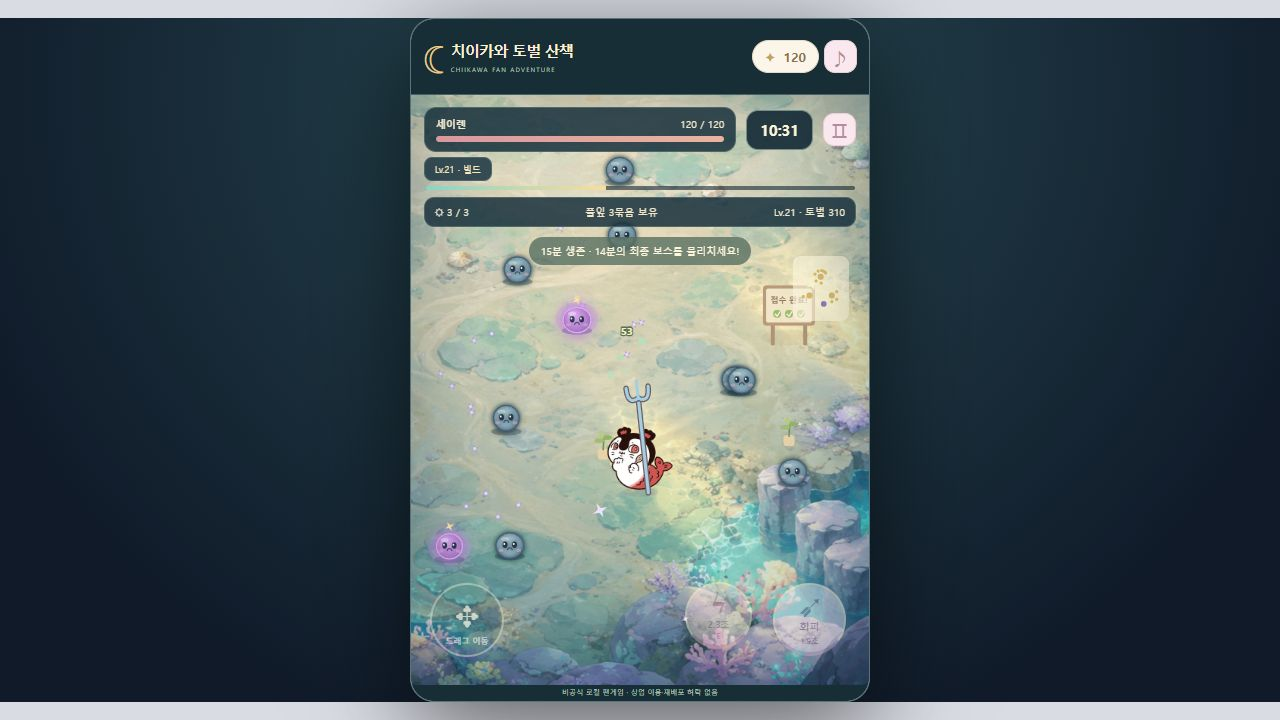
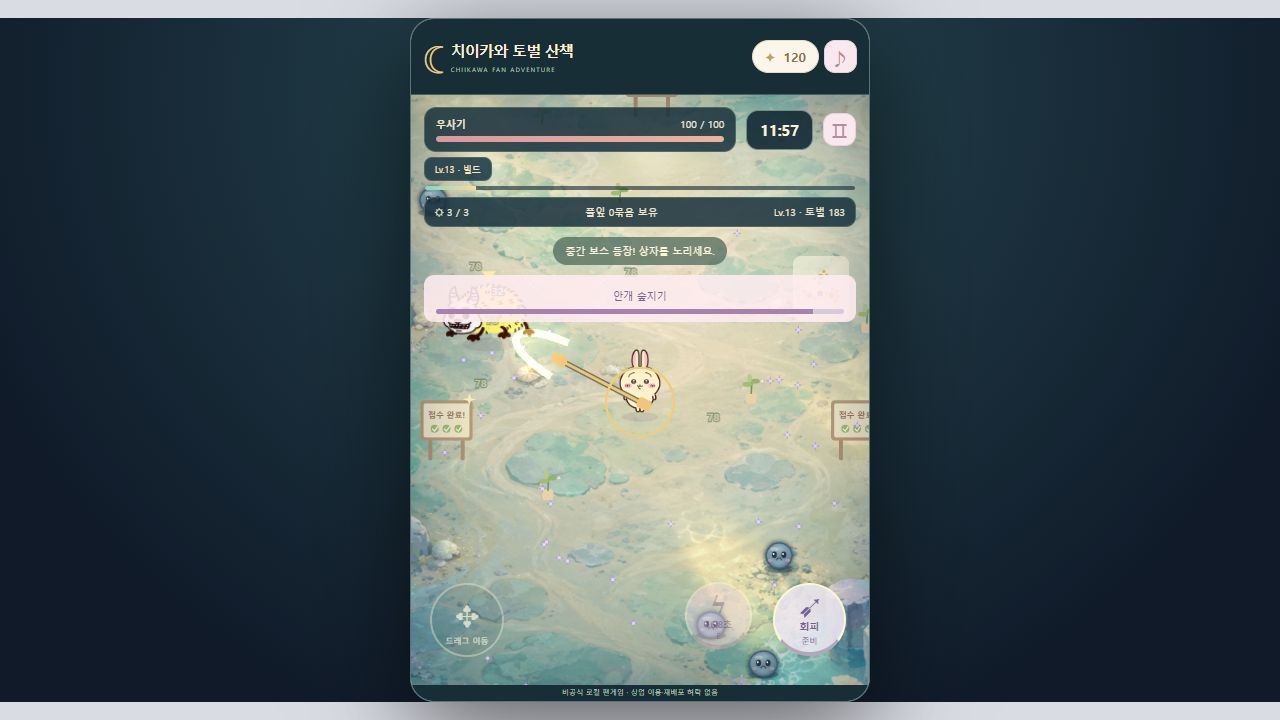
Refresh gameplay screenshots and add current eleven-character guide

diff --git a/characters.html b/characters.html
@@ -1,0 +1,1 @@
+<!doctype html><html lang="ko"><meta charset="utf-8"><meta name="viewport" content="width=device-width,initial-scale=1"><title>치이카와 토벌 산책 · 캐릭터 도감</title><style>*{box-sizing:border-box}body{margin:0;padding:34px;background:radial-gradient(at 50% 0%,#31545c,#101c2d);color:#f5e6c7;font-family:'Malgun Gothic',sans-serif}main{max-width:1120px;margin:auto}header{display:flex;align-items:end;justify-content:space-between;margin-bottom:24px}h1{margin:8px 0;font-size:32px}header p{color:#c6d6cd;font-size:13px}.eyebrow{letter-spacing:3px;color:#d5b777;font-size:10px}.grid{display:grid;grid-template-columns:repeat(4,1fr);gap:14px}article{background:linear-gradient(140deg,#354e57,#223443);border:1px solid #82948b66;border-radius:18px;padding:15px;min-height:255px;position:relative;overflow:hidden}canvas{display:block;width:160px;height:130px;margin:auto}h2{font-size:17px;margin:6px 0;color:#ffe8b8}p{font-size:10px;line-height:1.7;color:#bdcec6;margin:6px 0}strong{font-size:11px;color:#e9c995}.stats{color:#d4dfda;font-size:9px}.note{margin-top:20px;font-size:10px;color:#b1c4bc}@media(max-width:700px){.grid{grid-template-columns:repeat(2,1fr)}body{padding:20px}h1{font-size:24px}}</style><main><header><div><span class="eyebrow">CHIIKAWA FAN ADVENTURE · CHARACTER GUIDE</span><h1>함께 모험할 11명의 친구들</h1><p>서로 다른 무기와 고유 능력으로 만드는 나만의 생존 조합</p></div></header><section class="grid" id="roster"></section><p class="note">비공식 팬게임의 실제 렌더링 · 캐릭터 권리는 각 원권리자에게 있습니다. 무기·능력은 팬게임 창작을 포함합니다.</p></main><script type="module">import{CAST}from'./chiikawa-content.mjs';import{TRAITS}from'./progression.mjs';import{loadCast,drawHero}from'./rescue-art.mjs';await loadCast();for(const[id,h]of Object.entries(CAST)){const card=document.createElement('article'),c=document.createElement('canvas');c.width=320;c.height=260;drawHero(c.getContext('2d'),160,199,{hero:id,time:0,scale:2.1});card.append(c);for(const[tag,text]of[['h2',h.name],['p',h.species],['strong',TRAITS[id].name],['p',TRAITS[id].desc],['p',`HP ${h.hp} · 이동 ${h.speed} · ${TRAITS[id].synergy}`]]){const e=document.createElement(tag);e.textContent=text;card.append(e)}document.querySelector('#roster').append(card);}</script></html>

diff --git a/README.md b/README.md
@@ -10,7 +10,7 @@
 
 | 전투 · 이동 · 토벌 | 레벨업 · 강화 선택 |
 |:---:|:---:|
-| <img src="docs/screenshots/gameplay.png" width="300" alt="세이렌으로 플레이하는 실제 전투 화면"> | <img src="docs/screenshots/upgrade.png" width="300" alt="무기와 능력을 강화하는 실제 선택 화면"> |
+| <img src="docs/screenshots/gameplay.png" width="300" alt="우사기로 중간 보스와 전투하는 최신 실제 플레이 화면"> | <img src="docs/screenshots/upgrade-cinematic.png" width="300" alt="무기와 능력을 강화하는 실제 선택 화면"> |
 
 로컬 브라우저에서 촬영한 실제 화면입니다. 화면 속 캐릭터 권리는 각 원권리자에게 있습니다.
 
@@ -90,21 +90,25 @@ node server.cjs
 
 ## 캐릭터 11명
 
-아래 움직이는 미리보기는 [원본 팬 아트 저장소](https://github.com/heelee912/chiikawa-dots-pets)의 GIF를 직접 참조합니다. 이미지 파일을 이 저장소에 다시 업로드하지 않았습니다. **전투 수치와 고유기는 팬게임용 창작**이며 원작의 공식 기술 목록을 뜻하지 않습니다.
+아래는 최신 게임 렌더러로 촬영한 11명 캐릭터 도감입니다. 무기·고유기·시너지를 함께 확인할 수 있습니다. **전투 수치와 고유기는 팬게임용 창작**입니다.
 
-| 미리보기 | 캐릭터 | 기본 무기 모티브 / 팬게임 무기 | 고유기 |
-|:---:|---|---|---|
-| <img src="https://raw.githubusercontent.com/heelee912/chiikawa-dots-pets/bb96582f525fbdf88a236b4703433ae92bfd5888/assets/motions/usagi/idle.gif" width="76" alt="우사기 미리보기"> | **우사기**<br><code>usagi</code> | 양끝 토벌봉 | **야하! 번개질주**<br>8초간 공격 가속 + 주변 번개 폭발 |
-| <img src="https://raw.githubusercontent.com/heelee912/chiikawa-dots-pets/bb96582f525fbdf88a236b4703433ae92bfd5888/assets/motions/chiikawa/idle.gif" width="76" alt="치이카와 미리보기"> | **치이카와**<br><code>chiikawa</code> | 분홍 사스마타 | **작지만 용감한 방패**<br>체력 회복 + 10초간 보호막 |
-| <img src="https://raw.githubusercontent.com/heelee912/chiikawa-dots-pets/bb96582f525fbdf88a236b4703433ae92bfd5888/assets/motions/hachiware/idle.gif" width="76" alt="하치와레 미리보기"> | **하치와레**<br><code>hachiware</code> | 파란 사스마타 | **어떻게든 된다!**<br>12초간 친구 분신이 함께 공격 |
-| <img src="https://raw.githubusercontent.com/heelee912/chiikawa-dots-pets/bb96582f525fbdf88a236b4703433ae92bfd5888/assets/motions/rakko/idle.gif" width="76" alt="랏코 미리보기"> | **랏코**<br><code>rakko</code> | 검 | **토벌 선생의 일섬**<br>넓은 범위 3연속 베기 + 8초간 치명타 |
-| <img src="https://raw.githubusercontent.com/heelee912/chiikawa-dots-pets/bb96582f525fbdf88a236b4703433ae92bfd5888/assets/motions/momonga/idle.gif" width="76" alt="모몽가 미리보기"> | **모몽가**<br><code>momonga</code> | 팬게임 바람 지팡이 | **나를 봐! 회오리**<br>10초간 가속 + 반복하는 바람 공격 |
-| <img src="https://raw.githubusercontent.com/heelee912/chiikawa-dots-pets/bb96582f525fbdf88a236b4703433ae92bfd5888/assets/motions/shisa/idle.gif" width="76" alt="시사 미리보기"> | **시사**<br><code>shisa</code> | 팬게임 국자 | **따끈한 라멘 한 그릇**<br>즉시 회복 + 10초간 회복·열기 장판 |
-| <img src="https://raw.githubusercontent.com/heelee912/chiikawa-dots-pets/bb96582f525fbdf88a236b4703433ae92bfd5888/assets/motions/kurimanju/idle.gif" width="76" alt="쿠리만주 미리보기"> | **쿠리만주**<br><code>kurimanju</code> | 팬게임 간식 방망이 | **든든한 한잔**<br>12초간 공격력 두 배 · 받는 피해 감소 |
-| <img src="https://raw.githubusercontent.com/heelee912/chiikawa-dots-pets/bb96582f525fbdf88a236b4703433ae92bfd5888/assets/motions/furuhonya/idle.gif" width="76" alt="후루혼야 미리보기"> | **후루혼야**<br><code>furuhonya</code> | 팬게임 책 마법 | **이야기책의 폭풍**<br>현재 위치에 12초간 책 마법진 설치 |
-| <img src="https://raw.githubusercontent.com/heelee912/chiikawa-dots-pets/bb96582f525fbdf88a236b4703433ae92bfd5888/assets/motions/siren/idle.gif" width="76" alt="세이렌 미리보기"> | **세이렌**<br><code>siren</code> | 팬게임 물결창 | **넘실넘실 큰 파도**<br>넓은 파도 공격 + 8초간 적 감속 |
-| <img src="https://raw.githubusercontent.com/heelee912/chiikawa-dots-pets/bb96582f525fbdf88a236b4703433ae92bfd5888/assets/motions/anoko/idle.gif" width="76" alt="아노코 미리보기"> | **아노코**<br><code>anoko</code> | 팬게임 발톱 | **배고픈 사냥**<br>주변을 할퀴고 회복 · 8초간 흡혈 공격 |
-| <img src="https://raw.githubusercontent.com/heelee912/chiikawa-dots-pets/bb96582f525fbdf88a236b4703433ae92bfd5888/assets/motions/dekatsuyo/idle.gif" width="76" alt="데카츠요 미리보기"> | **데카츠요**<br><code>dekatsuyo</code> | 팬게임 큰 발톱 | **엄청 커졌다!**<br>12초간 거대화 · 접촉 충격파 · 피해 감소 |
+![최신 캐릭터 11명 · 무기와 고유기](docs/screenshots/characters-latest.png)
+
+로컬 실행 후 [캐릭터 도감](http://localhost:4173/characters.html)에서도 볼 수 있습니다.
+
+| 캐릭터 | 기본 무기 모티브 / 팬게임 무기 | 고유기 |
+|---|---|---|
+| **우사기**<br><code>usagi</code> | 양끝 토벌봉 | **야하! 번개질주**<br>8초간 공격 가속 + 주변 번개 폭발 |
+| **치이카와**<br><code>chiikawa</code> | 분홍 사스마타 | **작지만 용감한 방패**<br>체력 회복 + 10초간 보호막 |
+| **하치와레**<br><code>hachiware</code> | 파란 사스마타 | **어떻게든 된다!**<br>12초간 친구 분신이 함께 공격 |
+| **랏코**<br><code>rakko</code> | 검 | **토벌 선생의 일섬**<br>넓은 범위 3연속 베기 + 8초간 치명타 |
+| **모몽가**<br><code>momonga</code> | 팬게임 바람 지팡이 | **나를 봐! 회오리**<br>10초간 가속 + 반복하는 바람 공격 |
+| **시사**<br><code>shisa</code> | 팬게임 국자 | **따끈한 라멘 한 그릇**<br>즉시 회복 + 10초간 회복·열기 장판 |
+| **쿠리만주**<br><code>kurimanju</code> | 팬게임 간식 방망이 | **든든한 한잔**<br>12초간 공격력 두 배 · 받는 피해 감소 |
+| **후루혼야**<br><code>furuhonya</code> | 팬게임 책 마법 | **이야기책의 폭풍**<br>현재 위치에 12초간 책 마법진 설치 |
+| **세이렌**<br><code>siren</code> | 팬게임 물결창 | **넘실넘실 큰 파도**<br>넓은 파도 공격 + 8초간 적 감속 |
+| **아노코**<br><code>anoko</code> | 팬게임 발톱 | **배고픈 사냥**<br>주변을 할퀴고 회복 · 8초간 흡혈 공격 |
+| **데카츠요**<br><code>dekatsuyo</code> | 팬게임 큰 발톱 | **엄청 커졌다!**<br>12초간 거대화 · 접촉 충격파 · 피해 감소 |
 
 ### 캐릭터별 시너지
 
